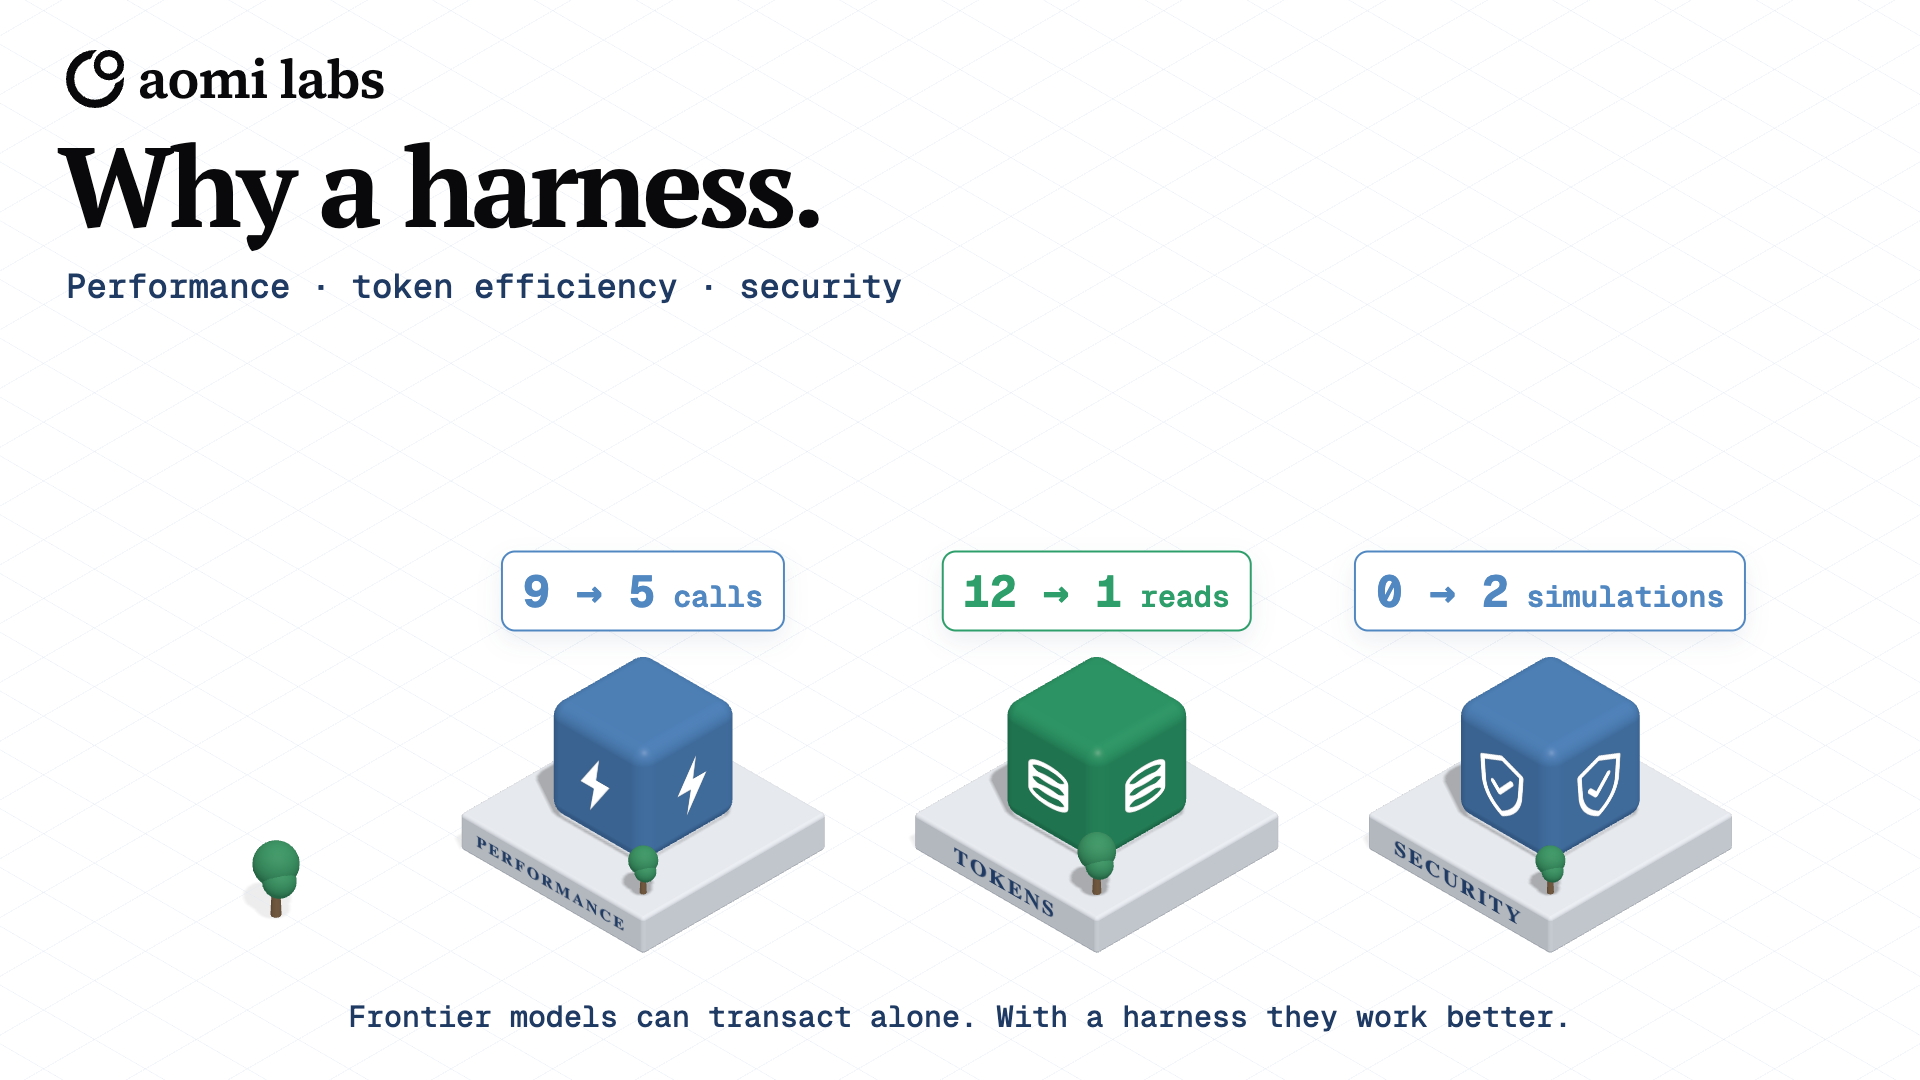
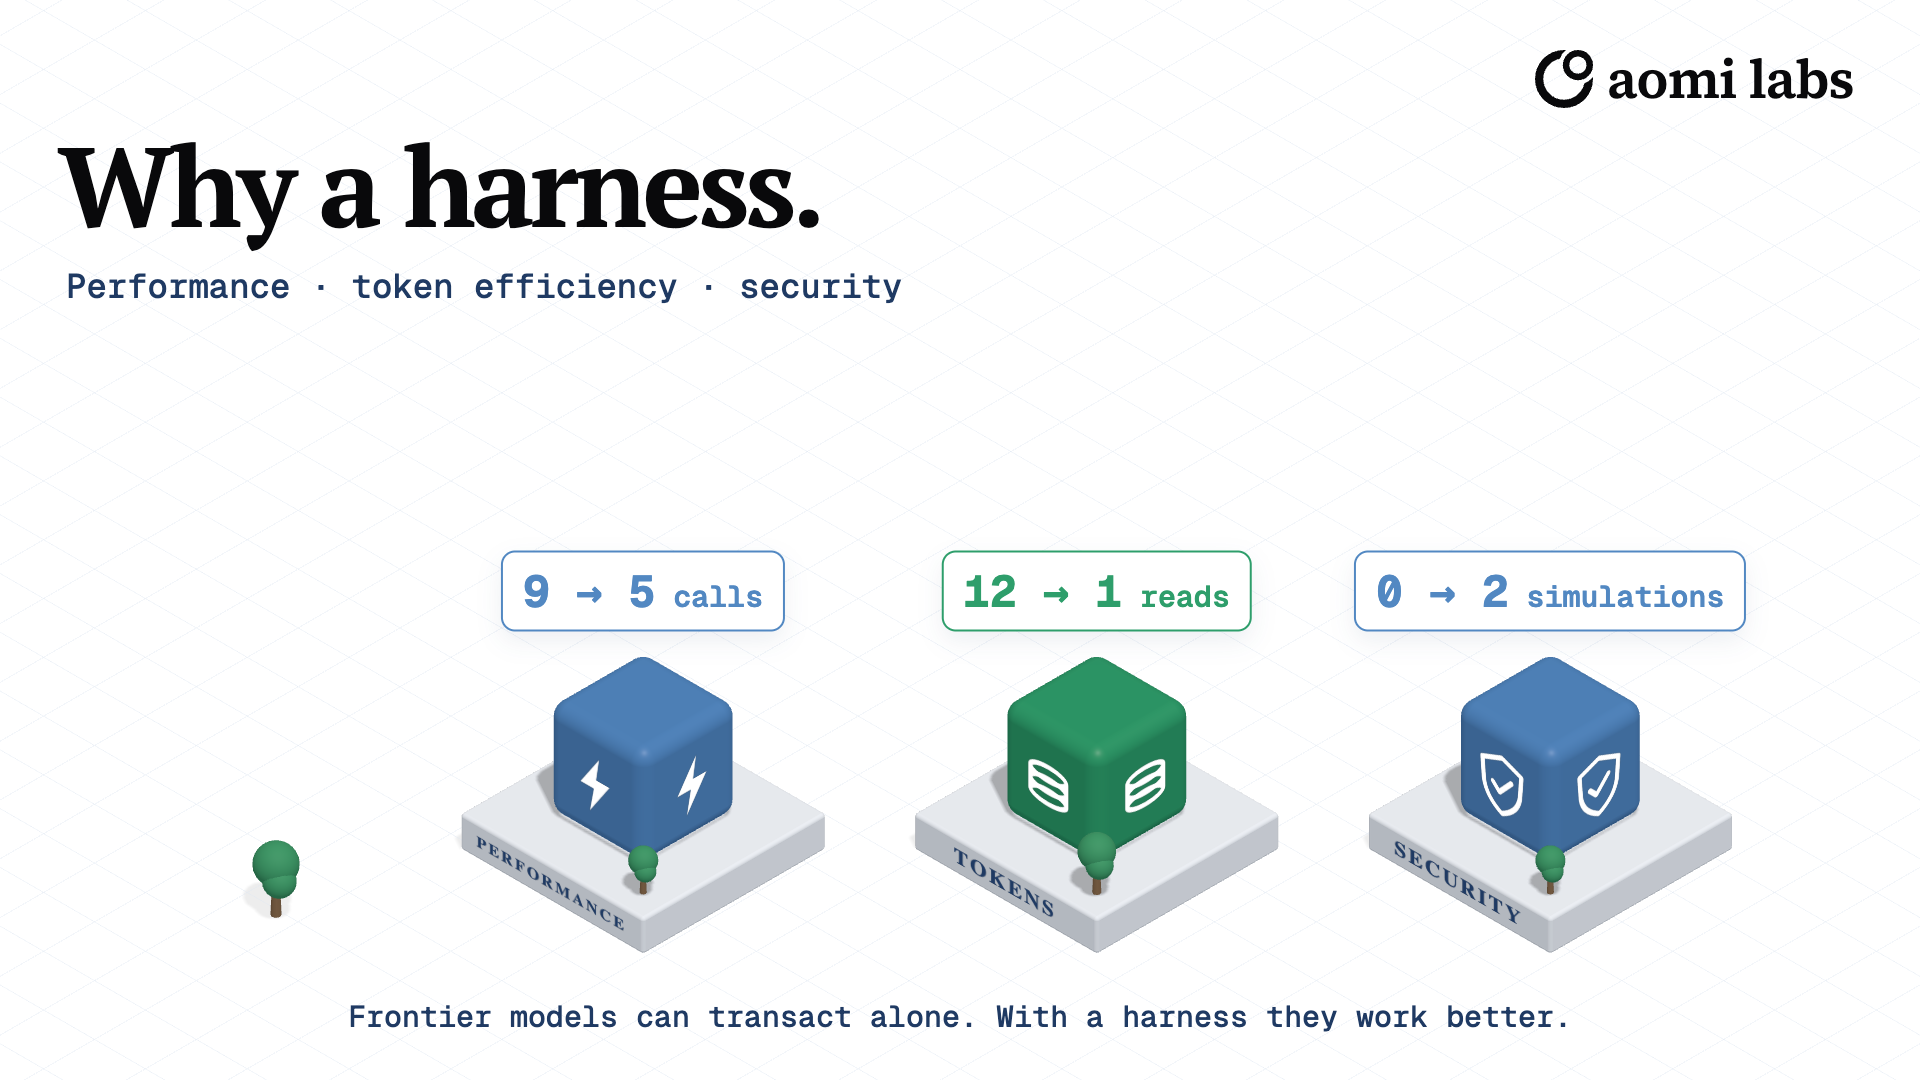
videos(intent-to-execution): "aomi labs" lockup top-right on the posters

Changed region(s): [[0.0312, 0.0306, 0.2188, 0.1222], [0.7812, 0.0306, 0.9688, 0.0917]]

diff --git a/deliverables/videos/intent-to-execution-graphics/iso.html b/deliverables/videos/intent-to-execution-graphics/iso.html
@@ -15,7 +15,7 @@
 html,body{margin:0;background:#fff}
 #stage{position:relative;width:1920px;height:1080px;overflow:hidden;background:#fff}
 #gl,#ov{position:absolute;inset:0} #ov{pointer-events:none}
-.logo{position:absolute;left:66px;top:50px;display:flex;align-items:center;gap:14px}
+.logo{position:absolute;right:66px;top:50px;display:flex;align-items:center;gap:14px}
 .logo svg{width:58px;height:58px} .logo span{font:600 54px/1 'Source Serif 4',serif;letter-spacing:-.01em;color:var(--ink)}
 h1{position:absolute;left:58px;top:132px;margin:0;white-space:nowrap;font:700 112px/.95 'PT Serif',serif;letter-spacing:-.035em;color:var(--ink)}
 .sub{position:absolute;left:66px;font:500 34px 'Geist Mono',monospace;color:var(--navy)}
